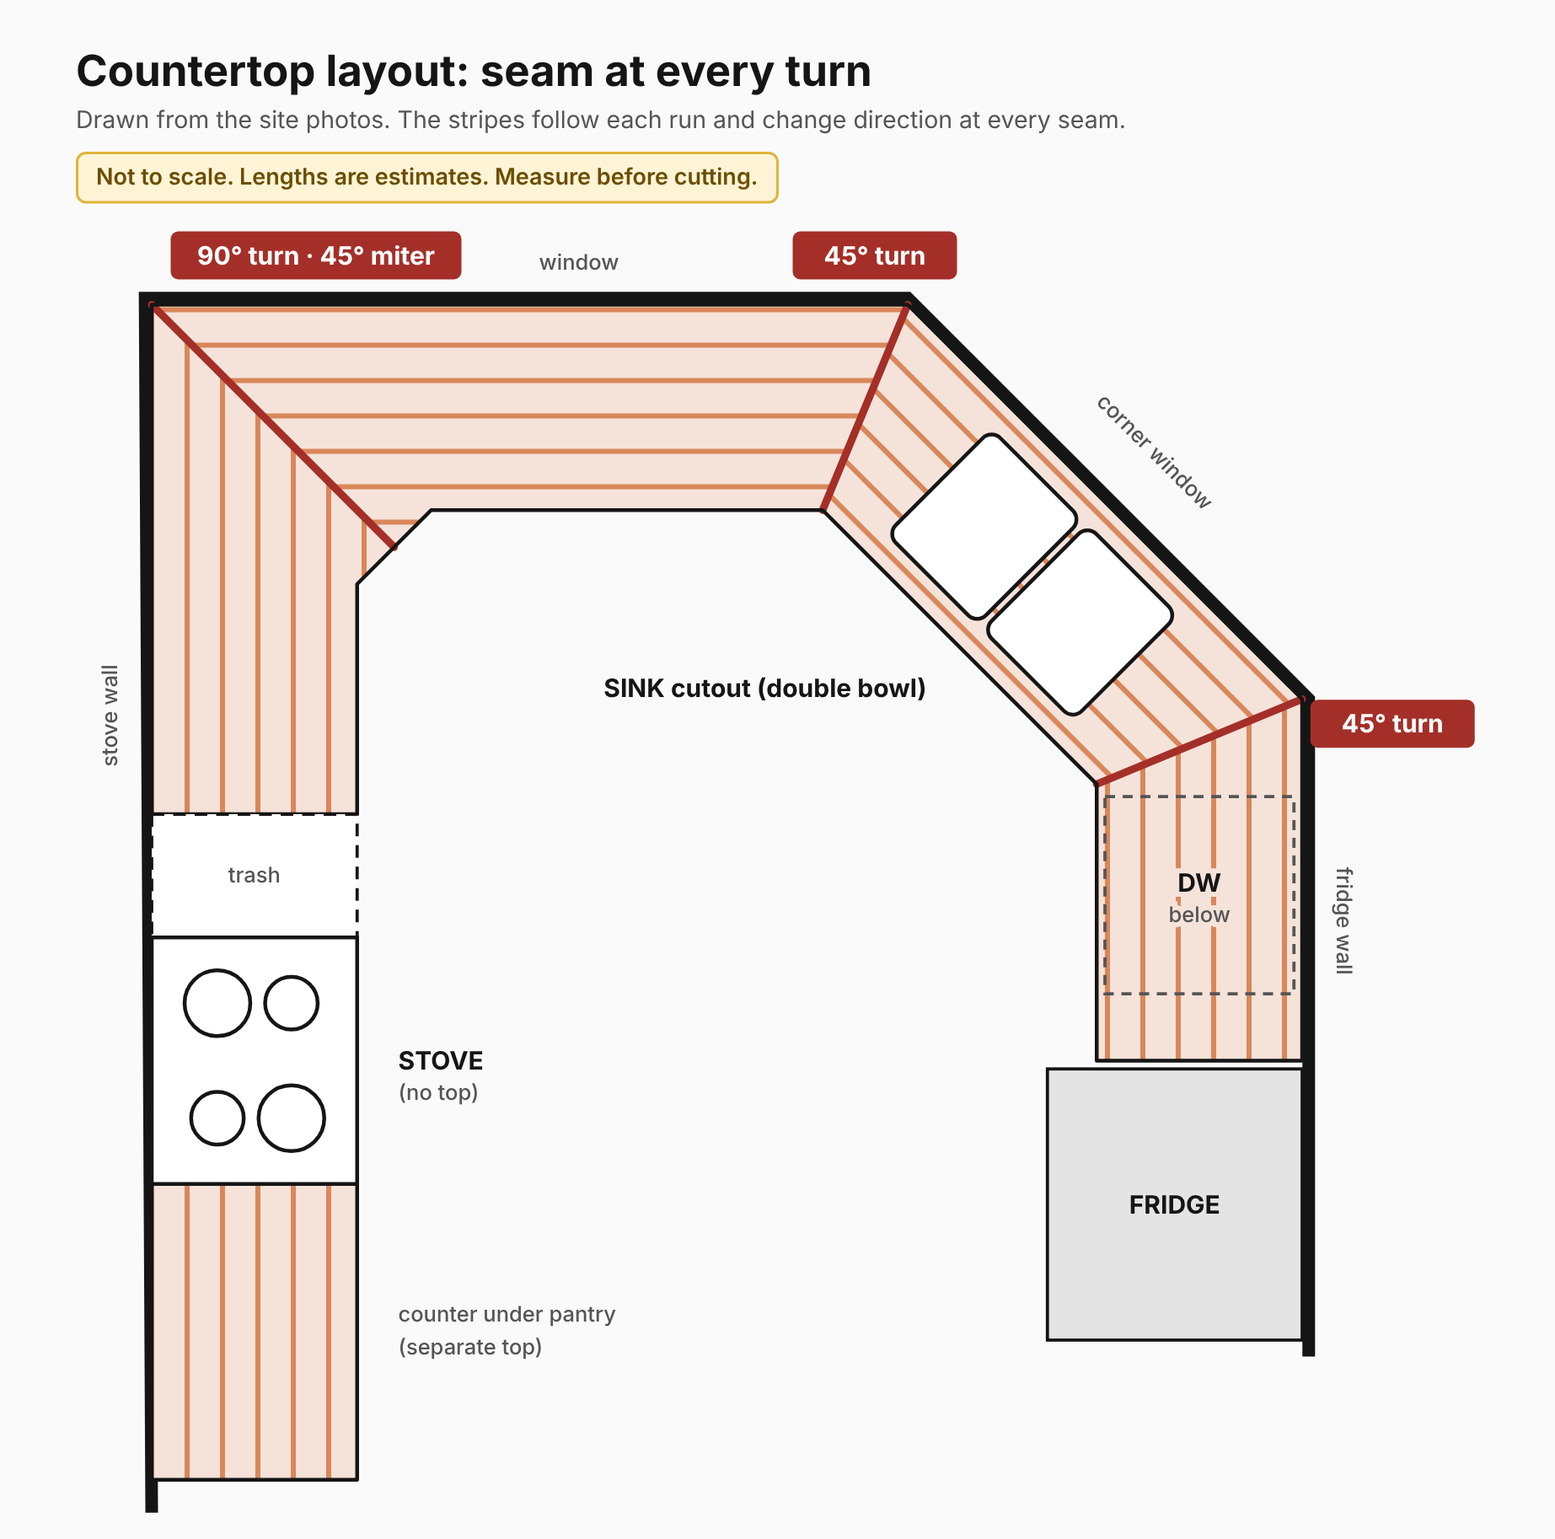
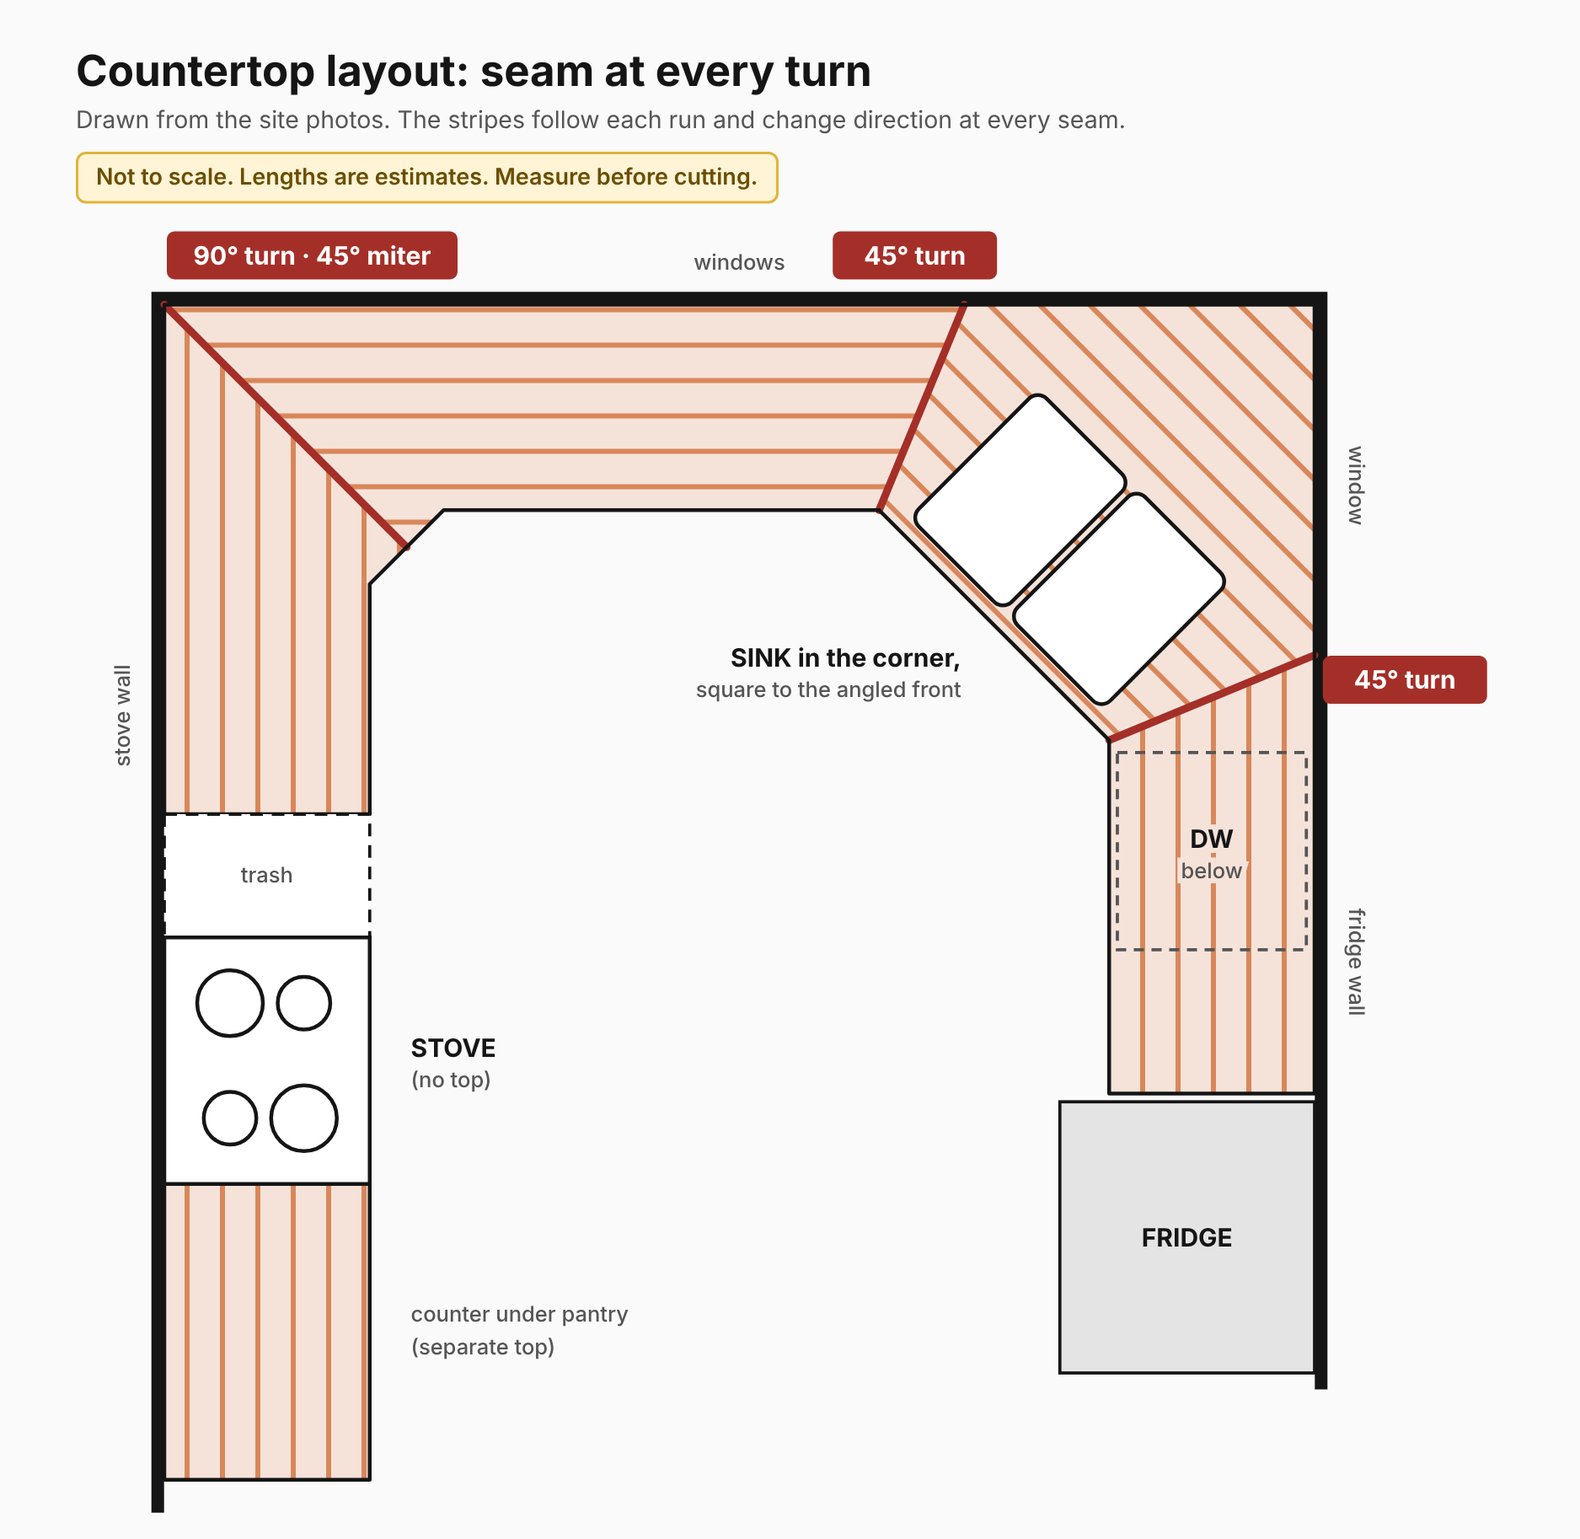
Put the sink in the corner turn with a square back corner
Claude-Session: https://claude.ai/code/session_0184TWYWwthUzeRkAu7BekQP

diff --git a/construction-content/diagrams/countertop-layout.html b/construction-content/diagrams/countertop-layout.html
@@ -2,7 +2,7 @@
 <html><head><meta charset="utf-8">
 <style>
   body { margin: 0; background: #fafafa; font-family: Inter, sans-serif; color: #151515; }
-  .head { width: 1230px; padding: 36px 0 0; }
+  .head { width: 1250px; padding: 36px 0 0; }
   h1 { font-size: 34px; margin: 0 60px 6px; }
   p { font-size: 19px; margin: 0 60px; color: #555; }
   .draft { display: inline-block; margin: 14px 60px 0; background: #fff4d6; border: 2px solid #e0b33a; border-radius: 8px; padding: 8px 14px; font: 600 18px Inter, sans-serif; color: #6b4e00; }
@@ -28,53 +28,52 @@
   <p>Drawn from the site photos. The stripes follow each run and change direction at every seam.</p>
   <div class="draft">Not to scale. Lengths are estimates. Measure before cutting.</div>
 </div>
-<svg width="1230" height="1052" viewBox="0 120 1230 1052">
+<svg width="1250" height="1052" viewBox="0 120 1250 1052">
 <defs>
   <pattern id="h" width="40" height="28" patternUnits="userSpaceOnUse"><line x1="0" y1="8" x2="40" y2="8" class="stripe"/></pattern>
   <pattern id="v" width="28" height="40" patternUnits="userSpaceOnUse"><line x1="8" y1="0" x2="8" y2="40" class="stripe"/></pattern>
   <pattern id="d" width="40" height="28" patternUnits="userSpaceOnUse" patternTransform="rotate(45)"><line x1="0" y1="8" x2="40" y2="8" class="stripe"/></pattern>
 </defs>
-<polyline class="wall" points="120.0,1155.5 114.8,194.8 718.0,194.8 1035.2,512.0 1035.2,1032.0"/>
-<text class="sm" x="458.0" y="167.5" >window</text>
-<text class="sm" x="913.0" y="317.0" transform="rotate(45 913.0 317.0)">corner window</text>
-<text class="sm" x="87.5" y="525.0" transform="rotate(-90 87.5 525.0)">stove wall</text>
-<text class="sm" x="1062.5" y="687.5" transform="rotate(90 1062.5 687.5)">fridge wall</text>
+<polyline class="wall" points="124.8,1155.5 124.8,194.8 1045.2,194.8 1045.2,1058.0"/>
+<text class="sm" x="585.0" y="167.5" >windows</text>
+<text class="sm" x="1072.5" y="343.0" transform="rotate(90 1072.5 343.0)">window</text>
+<text class="sm" x="97.5" y="525.0" transform="rotate(-90 97.5 525.0)">stove wall</text>
+<text class="sm" x="1072.5" y="720.0" transform="rotate(90 1072.5 720.0)">fridge wall</text>
 
-<polygon class="piece" points="120.0,200.0 718.0,200.0 650.7,362.5 341.0,362.5 311.8,391.8"/><polygon fill="url(#h)" points="120.0,200.0 718.0,200.0 650.7,362.5 341.0,362.5 311.8,391.8"/>
-<polygon class="piece" points="718.0,200.0 1030.0,512.0 867.5,579.3 650.7,362.5"/><polygon fill="url(#d)" points="718.0,200.0 1030.0,512.0 867.5,579.3 650.7,362.5"/>
-<polygon class="piece" points="1030.0,512.0 1030.0,798.0 867.5,798.0 867.5,579.3"/><polygon fill="url(#v)" points="1030.0,512.0 1030.0,798.0 867.5,798.0 867.5,579.3"/>
-<polygon class="piece" points="120.0,200.0 311.8,391.8 282.5,421.0 282.5,603.0 120.0,603.0"/><polygon fill="url(#v)" points="120.0,200.0 311.8,391.8 282.5,421.0 282.5,603.0 120.0,603.0"/>
-<polygon class="piece" points="120.0,895.5 282.5,895.5 282.5,1129.5 120.0,1129.5"/><polygon fill="url(#v)" points="120.0,895.5 282.5,895.5 282.5,1129.5 120.0,1129.5"/>
+<polygon class="piece" points="130.0,200.0 762.8,200.0 695.5,362.5 351.0,362.5 321.8,391.8"/><polygon fill="url(#h)" points="130.0,200.0 762.8,200.0 695.5,362.5 351.0,362.5 321.8,391.8"/>
+<polygon class="piece" points="762.8,200.0 1040.0,200.0 1040.0,477.2 877.5,544.5 695.5,362.5"/><polygon fill="url(#d)" points="762.8,200.0 1040.0,200.0 1040.0,477.2 877.5,544.5 695.5,362.5"/>
+<polygon class="piece" points="1040.0,477.2 1040.0,824.0 877.5,824.0 877.5,544.5"/><polygon fill="url(#v)" points="1040.0,477.2 1040.0,824.0 877.5,824.0 877.5,544.5"/>
+<polygon class="piece" points="130.0,200.0 321.8,391.8 292.5,421.0 292.5,603.0 130.0,603.0"/><polygon fill="url(#v)" points="130.0,200.0 321.8,391.8 292.5,421.0 292.5,603.0 130.0,603.0"/>
+<polygon class="piece" points="130.0,895.5 292.5,895.5 292.5,1129.5 130.0,1129.5"/><polygon fill="url(#v)" points="130.0,895.5 292.5,895.5 292.5,1129.5 130.0,1129.5"/>
 
-<g transform="translate(816.5,413.5) rotate(45)">
-  <rect class="sink" x="-104.0" y="-58.5" width="100.8" height="117.0" rx="10"/>
-  <rect class="sink" x="3.2" y="-58.5" width="100.8" height="117.0" rx="10"/>
+<g transform="translate(846.3,393.7) rotate(45)">
+  <rect class="sink" x="-107.2" y="-71.5" width="104.0" height="143.0" rx="10"/>
+  <rect class="sink" x="3.2" y="-71.5" width="104.0" height="143.0" rx="10"/>
 </g>
 
-<line class="seam" x1="120.0" y1="200.0" x2="311.8" y2="391.8"/>
-<line class="seam" x1="718.0" y1="200.0" x2="650.7" y2="362.5"/>
-<line class="seam" x1="1030.0" y1="512.0" x2="867.5" y2="579.3"/>
-<polygon class="outline" points="120.0,200.0 718.0,200.0 1030.0,512.0 1030.0,798.0 867.5,798.0 867.5,579.3 650.7,362.5 341.0,362.5 282.5,421.0 282.5,603.0 120.0,603.0"/>
-<polygon class="outline" points="120.0,895.5 282.5,895.5 282.5,1129.5 120.0,1129.5"/>
+<line class="seam" x1="130.0" y1="200.0" x2="321.8" y2="391.8"/><line class="seam" x1="695.5" y1="362.5" x2="762.8" y2="200.0"/><line class="seam" x1="877.5" y1="544.5" x2="1040.0" y2="477.2"/>
+<polygon class="outline" points="130.0,200.0 1040.0,200.0 1040.0,824.0 877.5,824.0 877.5,544.5 695.5,362.5 351.0,362.5 292.5,421.0 292.5,603.0 130.0,603.0"/>
+<polygon class="outline" points="130.0,895.5 292.5,895.5 292.5,1129.5 130.0,1129.5"/>
 
-<rect class="open" x="120.0" y="603.0" width="162.5" height="97.5"/>
-<text class="sm" x="201.2" y="651.8" >trash</text>
-<rect class="stove" x="120.0" y="700.5" width="162.5" height="195.0"/>
-<circle class="burner" cx="172.0" cy="752.5" r="26.0"/><circle class="burner" cx="172.0" cy="843.5" r="20.8"/><circle class="burner" cx="230.5" cy="752.5" r="20.8"/><circle class="burner" cx="230.5" cy="843.5" r="26.0"/>
-<text class="lbl" x="315.0" y="798.0" style="text-anchor:start">STOVE</text>
-<text class="sm" x="315.0" y="824.0" style="text-anchor:start">(no top)</text>
-<text class="sm" x="315.0" y="999.5" style="text-anchor:start">counter under pantry</text>
-<text class="sm" x="315.0" y="1025.5" style="text-anchor:start">(separate top)</text>
+<rect class="open" x="130.0" y="603.0" width="162.5" height="97.5"/>
+<text class="sm" x="211.2" y="651.8" >trash</text>
+<rect class="stove" x="130.0" y="700.5" width="162.5" height="195.0"/>
+<circle class="burner" cx="182.0" cy="752.5" r="26.0"/><circle class="burner" cx="182.0" cy="843.5" r="20.8"/><circle class="burner" cx="240.5" cy="752.5" r="20.8"/><circle class="burner" cx="240.5" cy="843.5" r="26.0"/>
+<text class="lbl" x="325.0" y="788.2" style="text-anchor:start">STOVE</text>
+<text class="sm" x="325.0" y="814.2" style="text-anchor:start">(no top)</text>
+<text class="sm" x="325.0" y="999.5" style="text-anchor:start">counter under pantry</text>
+<text class="sm" x="325.0" y="1025.5" style="text-anchor:start">(separate top)</text>
 
-<rect class="under" x="874.0" y="589.1" width="149.5" height="156.0"/>
-<text class="lbl" x="948.8" y="657.3" style="paint-order:stroke;stroke:#f5e3da;stroke-width:8">DW</text>
-<text class="sm" x="948.8" y="683.3" style="paint-order:stroke;stroke:#f5e3da;stroke-width:8">below</text>
-<rect class="fridge" x="828.5" y="804.5" width="201.5" height="214.5"/>
-<text class="lbl" x="929.2" y="911.8" >FRIDGE</text>
+<rect class="under" x="884.0" y="554.2" width="149.5" height="156.0"/>
+<text class="lbl" x="958.8" y="622.5" style="paint-order:stroke;stroke:#f5e3da;stroke-width:8">DW</text>
+<text class="sm" x="958.8" y="648.5" style="paint-order:stroke;stroke:#f5e3da;stroke-width:8">below</text>
+<rect class="fridge" x="838.5" y="830.5" width="201.5" height="214.5"/>
+<text class="lbl" x="939.2" y="937.8" >FRIDGE</text>
 
-<g class="tag" transform="translate(250.0,161.0)"><rect x="-115.0" y="-19" width="230" height="38" rx="6"/><text>90° turn · 45° miter</text></g>
-<g class="tag" transform="translate(692.0,161.0)"><rect x="-65.0" y="-19" width="130" height="38" rx="6"/><text>45° turn</text></g>
-<g class="tag" transform="translate(1101.5,531.5)"><rect x="-65.0" y="-19" width="130" height="38" rx="6"/><text>45° turn</text></g>
-<text class="lbl" x="733.1" y="503.4" style="text-anchor:end">SINK cutout (double bowl)</text>
+<text class="lbl" x="760.5" y="479.5" style="text-anchor:end">SINK in the corner,</text>
+<text class="sm" x="760.5" y="505.5" style="text-anchor:end">square to the angled front</text>
+<g class="tag" transform="translate(247.0,161.0)"><rect x="-115.0" y="-19" width="230" height="38" rx="6"/><text>90° turn · 45° miter</text></g>
+<g class="tag" transform="translate(723.8,161.0)"><rect x="-65.0" y="-19" width="130" height="38" rx="6"/><text>45° turn</text></g>
+<g class="tag" transform="translate(1111.5,496.7)"><rect x="-65.0" y="-19" width="130" height="38" rx="6"/><text>45° turn</text></g>
 </svg>
 </body></html>

diff --git a/construction-content/diagrams/make_layout.py b/construction-content/diagrams/make_layout.py
@@ -1,41 +1,68 @@
 # Generates countertop-layout.html: plan view of the kitchen from the site photos,
 # with a seam at every change in direction. Dimensions are estimates (inches).
 import math
+
 S = 6.5               # px per inch
-OX, OY = 120, 200     # page offset of the back corner where stove wall meets window wall
+OX, OY = 130, 200     # page position of the back corner where the stove wall meets the window wall
 D = 25                # counter depth
 X = 140               # stove wall to fridge wall
-B = 48                # how far the diagonal back wall cuts in on each side
-C = 9                 # angled front at the left inside corner
-R2 = math.sqrt(2)
+A = 28                # sink corner: angled front cuts in this far on each run (front ~40")
+C = 9                 # angled drawer at the stove-side corner
+T = math.tan(math.radians(22.5)) * D   # where a seam from a 45° front bend meets the wall
+
+LEG_END = 62; TRASH = (62, 77); STOVE = (77, 107); PANTRY = (107, 143)
+RIGHT_END = 96
+
+# Sink corner: square back corner, angled front. Seams bisect each 45° bend.
+P1, P2 = (X - D - A, D), (X - D, D + A)
+W1, W2 = (P1[0] + T, 0), (X, P2[1] - T)
+# Stove-side corner: square back, small angled front, one 45° miter.
+cl1, cl2 = (D + C, D), (D, D + C)
+mid = ((cl1[0] + cl2[0]) / 2, (cl1[1] + cl2[1]) / 2)
+
+top = [(0, 0), W1, P1, cl1, mid]
+corner = [W1, (X, 0), W2, P2, P1]
+right = [W2, (X, RIGHT_END), (X - D, RIGHT_END), P2]
+left = [(0, 0), mid, cl2, (D, LEG_END), (0, LEG_END)]
+pantry = [(0, PANTRY[0]), (D, PANTRY[0]), (D, PANTRY[1]), (0, PANTRY[1])]
+outline = [(0, 0), (X, 0), (X, RIGHT_END), (X - D, RIGHT_END), P2, P1, cl1, cl2, (D, LEG_END), (0, LEG_END)]
+
+# Sink: 33 x 22 double bowl, square to the angled front, 2" back from the edge.
+n = (math.sqrt(.5), -math.sqrt(.5))          # from the angled front toward the back corner
+u = (math.sqrt(.5), math.sqrt(.5))           # along the angled front
+M = ((P1[0] + P2[0]) / 2, (P1[1] + P2[1]) / 2)
+SC = (M[0] + n[0] * 13, M[1] + n[1] * 13)
+
+def inside(pt, poly):
+    x, y = pt; hit = False
+    for (x1, y1), (x2, y2) in zip(poly, poly[1:] + poly[:1]):
+        if (y1 > y) != (y2 > y) and x < x1 + (y - y1) * (x2 - x1) / (y2 - y1):
+            hit = not hit
+    return hit
+for su in (-16.5, 16.5):
+    for sn in (-11, 11):
+        q = (SC[0] + u[0] * su + n[0] * sn, SC[1] + u[1] * su + n[1] * sn)
+        assert inside(q, corner), f"sink corner {q} crosses a seam or edge"
 
 def p(x, y): return f"{OX + x*S:.1f},{OY + y*S:.1f}"
 def poly(pts): return " ".join(p(*q) for q in pts)
+def at(x, y): return OX + x*S, OY + y*S
+def lbl(x, y, t, cls="lbl", extra=""):
+    px, py = at(x, y); return f'<text class="{cls}" x="{px:.1f}" y="{py:.1f}" {extra}>{t}</text>'
+def tag(x, y, t, w=130):
+    px, py = at(x, y)
+    return (f'<g class="tag" transform="translate({px:.1f},{py:.1f})"><rect x="{-w/2}" y="-19" width="{w}" height="38" rx="6"/>'
+            f'<text>{t}</text></g>')
+def seam(a, b):
+    (x1, y1), (x2, y2) = at(*a), at(*b)
+    return f'<line class="seam" x1="{x1:.1f}" y1="{y1:.1f}" x2="{x2:.1f}" y2="{y2:.1f}"/>'
+def rot(x, y, deg):
+    px, py = at(x, y); return f'transform="rotate({deg} {px:.1f} {py:.1f})"'
 
-# Right corner: back diagonal x - y = X - B; front diagonal offset by D.
-fr_w = (X - B - D*R2 + D, D)            # front bend on the window run
-fr_e = (X - D, X - D - (X - B - D*R2))  # front bend on the fridge wall run
-bk_w, bk_e = (X - B, 0), (X, B)
-cl1, cl2 = (D + C, D), (D, D + C)       # left corner angled front
-mid = ((cl1[0]+cl2[0])/2, (cl1[1]+cl2[1])/2)
-
-LEG_END = 62            # end of the counter on the stove wall, before the trash gap
-TRASH = (62, 77); STOVE = (77, 107); PANTRY = (107, 143)
-RIGHT_END = 92; DW = (fr_e[1] + 1.5, fr_e[1] + 25.5)
-
-top = [(0,0), bk_w, fr_w, cl1, mid]
-diag = [bk_w, bk_e, fr_e, fr_w]
-right = [bk_e, (X, RIGHT_END), (X - D, RIGHT_END), fr_e]
-left = [(0,0), mid, cl2, (D, LEG_END), (0, LEG_END)]
-pantry = [(0, PANTRY[0]), (D, PANTRY[0]), (D, PANTRY[1]), (0, PANTRY[1])]
-outline = [(0,0), bk_w, bk_e, (X, RIGHT_END), (X-D, RIGHT_END), fr_e, fr_w, cl1, cl2, (D, LEG_END), (0, LEG_END)]
-
-# Sink: 33 x 22 double bowl, centered on the diagonal piece, square to the diagonal.
-cx = (bk_w[0] + bk_e[0] + fr_w[0] + fr_e[0]) / 4
-cy = (bk_w[1] + bk_e[1] + fr_w[1] + fr_e[1]) / 4
-def lbl(x, y, t, cls="lbl", extra=""): return f'<text class="{cls}" x="{OX+x*S:.1f}" y="{OY+y*S:.1f}" {extra}>{t}</text>'
-def tag(x, y, t, w=150): return (f'<g class="tag" transform="translate({OX+x*S:.1f},{OY+y*S:.1f})">'
-    f'<rect x="{-w/2}" y="-19" width="{w}" height="38" rx="6"/><text>{t}</text></g>')
+scx, scy = at(*SC)
+burners = "".join(f'<circle class="burner" cx="{at(bx, by)[0]:.1f}" cy="{at(bx, by)[1]:.1f}" r="{r*S:.1f}"/>'
+                  for bx, by, r in [(8, STOVE[0]+8, 4), (8, STOVE[1]-8, 3.2), (17, STOVE[0]+8, 3.2), (17, STOVE[1]-8, 4)])
+halo = 'style="paint-order:stroke;stroke:#f5e3da;stroke-width:8"'
 
 svg = f"""
 <defs>
@@ -43,52 +70,51 @@ svg = f"""
   <pattern id="v" width="28" height="40" patternUnits="userSpaceOnUse"><line x1="8" y1="0" x2="8" y2="40" class="stripe"/></pattern>
   <pattern id="d" width="40" height="28" patternUnits="userSpaceOnUse" patternTransform="rotate(45)"><line x1="0" y1="8" x2="40" y2="8" class="stripe"/></pattern>
 </defs>
-<polyline class="wall" points="{p(0, PANTRY[1]+4)} {p(-0.8,-0.8)} {p(X-B,-0.8)} {p(X+0.8, B)} {p(X+0.8, 128)}"/>
-{lbl((X-B)/2 + 6, -5, "window", "sm")}
-{lbl(X - B/2 + 6, B/2 - 6, "corner window", "sm", 'transform="rotate(45 %.1f %.1f)"' % (OX+(X-B/2+6)*S, OY+(B/2-6)*S))}
-{lbl(-5, 50, "stove wall", "sm", 'transform="rotate(-90 %.1f %.1f)"' % (OX-5*S, OY+50*S))}
-{lbl(X+5, 75, "fridge wall", "sm", 'transform="rotate(90 %.1f %.1f)"' % (OX+(X+5)*S, OY+75*S))}
+<polyline class="wall" points="{p(-0.8, PANTRY[1]+4)} {p(-0.8,-0.8)} {p(X+0.8,-0.8)} {p(X+0.8, 132)}"/>
+{lbl(X/2, -5, "windows", "sm")}
+{lbl(X + 5, 22, "window", "sm", rot(X + 5, 22, 90))}
+{lbl(-5, 50, "stove wall", "sm", rot(-5, 50, -90))}
+{lbl(X + 5, 80, "fridge wall", "sm", rot(X + 5, 80, 90))}
 
 <polygon class="piece" points="{poly(top)}"/><polygon fill="url(#h)" points="{poly(top)}"/>
-<polygon class="piece" points="{poly(diag)}"/><polygon fill="url(#d)" points="{poly(diag)}"/>
+<polygon class="piece" points="{poly(corner)}"/><polygon fill="url(#d)" points="{poly(corner)}"/>
 <polygon class="piece" points="{poly(right)}"/><polygon fill="url(#v)" points="{poly(right)}"/>
 <polygon class="piece" points="{poly(left)}"/><polygon fill="url(#v)" points="{poly(left)}"/>
 <polygon class="piece" points="{poly(pantry)}"/><polygon fill="url(#v)" points="{poly(pantry)}"/>
 
-<g transform="translate({OX+cx*S:.1f},{OY+cy*S:.1f}) rotate(45)">
-  <rect class="sink" x="{-16*S:.1f}" y="{-9*S:.1f}" width="{15.5*S:.1f}" height="{18*S:.1f}" rx="10"/>
-  <rect class="sink" x="{0.5*S:.1f}" y="{-9*S:.1f}" width="{15.5*S:.1f}" height="{18*S:.1f}" rx="10"/>
+<g transform="translate({scx:.1f},{scy:.1f}) rotate(45)">
+  <rect class="sink" x="{-16.5*S:.1f}" y="{-11*S:.1f}" width="{16*S:.1f}" height="{22*S:.1f}" rx="10"/>
+  <rect class="sink" x="{0.5*S:.1f}" y="{-11*S:.1f}" width="{16*S:.1f}" height="{22*S:.1f}" rx="10"/>
 </g>
 
-<line class="seam" x1="{OX:.1f}" y1="{OY:.1f}" x2="{OX+mid[0]*S:.1f}" y2="{OY+mid[1]*S:.1f}"/>
-<line class="seam" x1="{OX+bk_w[0]*S:.1f}" y1="{OY:.1f}" x2="{OX+fr_w[0]*S:.1f}" y2="{OY+fr_w[1]*S:.1f}"/>
-<line class="seam" x1="{OX+bk_e[0]*S:.1f}" y1="{OY+bk_e[1]*S:.1f}" x2="{OX+fr_e[0]*S:.1f}" y2="{OY+fr_e[1]*S:.1f}"/>
+{seam((0, 0), mid)}{seam(P1, W1)}{seam(P2, W2)}
 <polygon class="outline" points="{poly(outline)}"/>
 <polygon class="outline" points="{poly(pantry)}"/>
 
-<rect class="open" x="{OX:.1f}" y="{OY+TRASH[0]*S:.1f}" width="{D*S:.1f}" height="{(TRASH[1]-TRASH[0])*S:.1f}"/>
-{lbl(D/2, (TRASH[0]+TRASH[1])/2, "trash", "sm")}
-<rect class="stove" x="{OX:.1f}" y="{OY+STOVE[0]*S:.1f}" width="{D*S:.1f}" height="{(STOVE[1]-STOVE[0])*S:.1f}"/>
-{"".join(f'<circle class="burner" cx="{OX+bx*S:.1f}" cy="{OY+by*S:.1f}" r="{r*S:.1f}"/>' for bx, by, r in [(8, STOVE[0]+8, 4), (8, STOVE[1]-8, 3.2), (17, STOVE[0]+8, 3.2), (17, STOVE[1]-8, 4)])}
-{lbl(D + 5, (STOVE[0]+STOVE[1])/2, "STOVE", "lbl", 'style="text-anchor:start"')}
-{lbl(D + 5, (STOVE[0]+STOVE[1])/2 + 4, "(no top)", "sm", 'style="text-anchor:start"')}
-{lbl(D + 5, (PANTRY[0]+PANTRY[1])/2 - 2, "counter under pantry", "sm", 'style="text-anchor:start"')}
-{lbl(D + 5, (PANTRY[0]+PANTRY[1])/2 + 2, "(separate top)", "sm", 'style="text-anchor:start"')}
+<rect class="open" x="{at(0,0)[0]:.1f}" y="{at(0,TRASH[0])[1]:.1f}" width="{D*S:.1f}" height="{(TRASH[1]-TRASH[0])*S:.1f}"/>
+{lbl(D/2, sum(TRASH)/2, "trash", "sm")}
+<rect class="stove" x="{at(0,0)[0]:.1f}" y="{at(0,STOVE[0])[1]:.1f}" width="{D*S:.1f}" height="{(STOVE[1]-STOVE[0])*S:.1f}"/>
+{burners}
+{lbl(D + 5, sum(STOVE)/2 - 1.5, "STOVE", "lbl", 'style="text-anchor:start"')}
+{lbl(D + 5, sum(STOVE)/2 + 2.5, "(no top)", "sm", 'style="text-anchor:start"')}
+{lbl(D + 5, sum(PANTRY)/2 - 2, "counter under pantry", "sm", 'style="text-anchor:start"')}
+{lbl(D + 5, sum(PANTRY)/2 + 2, "(separate top)", "sm", 'style="text-anchor:start"')}
 
-<rect class="under" x="{OX+(X-D+1)*S:.1f}" y="{OY+DW[0]*S:.1f}" width="{(D-2)*S:.1f}" height="{(DW[1]-DW[0])*S:.1f}"/>
-{lbl(X - D/2, (DW[0]+DW[1])/2 - 1.5, "DW", "lbl", 'style="paint-order:stroke;stroke:#f5e3da;stroke-width:8"')}
-{lbl(X - D/2, (DW[0]+DW[1])/2 + 2.5, "below", "sm", 'style="paint-order:stroke;stroke:#f5e3da;stroke-width:8"')}
-<rect class="fridge" x="{OX+(X-31)*S:.1f}" y="{OY+(RIGHT_END+1)*S:.1f}" width="{31*S:.1f}" height="{33*S:.1f}"/>
+<rect class="under" x="{at(X-D+1,0)[0]:.1f}" y="{at(0,P2[1]+1.5)[1]:.1f}" width="{(D-2)*S:.1f}" height="{24*S:.1f}"/>
+{lbl(X - D/2, P2[1] + 12, "DW", "lbl", halo)}
+{lbl(X - D/2, P2[1] + 16, "below", "sm", halo)}
+<rect class="fridge" x="{at(X-31,0)[0]:.1f}" y="{at(0,RIGHT_END+1)[1]:.1f}" width="{31*S:.1f}" height="{33*S:.1f}"/>
 {lbl(X - 15.5, RIGHT_END + 17.5, "FRIDGE")}
 
-{tag(20, -6, "90° turn · 45° miter", 230)}
-{tag(X - B - 4, -6, "45° turn", 130)}
-{tag(X + 11, B + 3, "45° turn", 130)}
-{lbl((fr_w[0]+fr_e[0])/2 - 4, (fr_w[1]+fr_e[1])/2 + 5, "SINK cutout (double bowl)", "lbl", 'style="text-anchor:end"')}
+{lbl(M[0] - 4, M[1] + 4, "SINK in the corner,", "lbl", 'style="text-anchor:end"')}
+{lbl(M[0] - 4, M[1] + 8, "square to the angled front", "sm", 'style="text-anchor:end"')}
+{tag(18, -6, "90° turn · 45° miter", 230)}
+{tag(W1[0] - 6, -6, "45° turn")}
+{tag(X + 11, W2[1] + 3, "45° turn")}
 """
 
-W = OX*2 + X*S + 80
-H = (OY - 120) + 145*S + 30
+W = OX * 2 + X * S + 80
+H = (OY - 120) + 145 * S + 30
 html = f"""<!doctype html>
 <html><head><meta charset="utf-8">
 <style>
